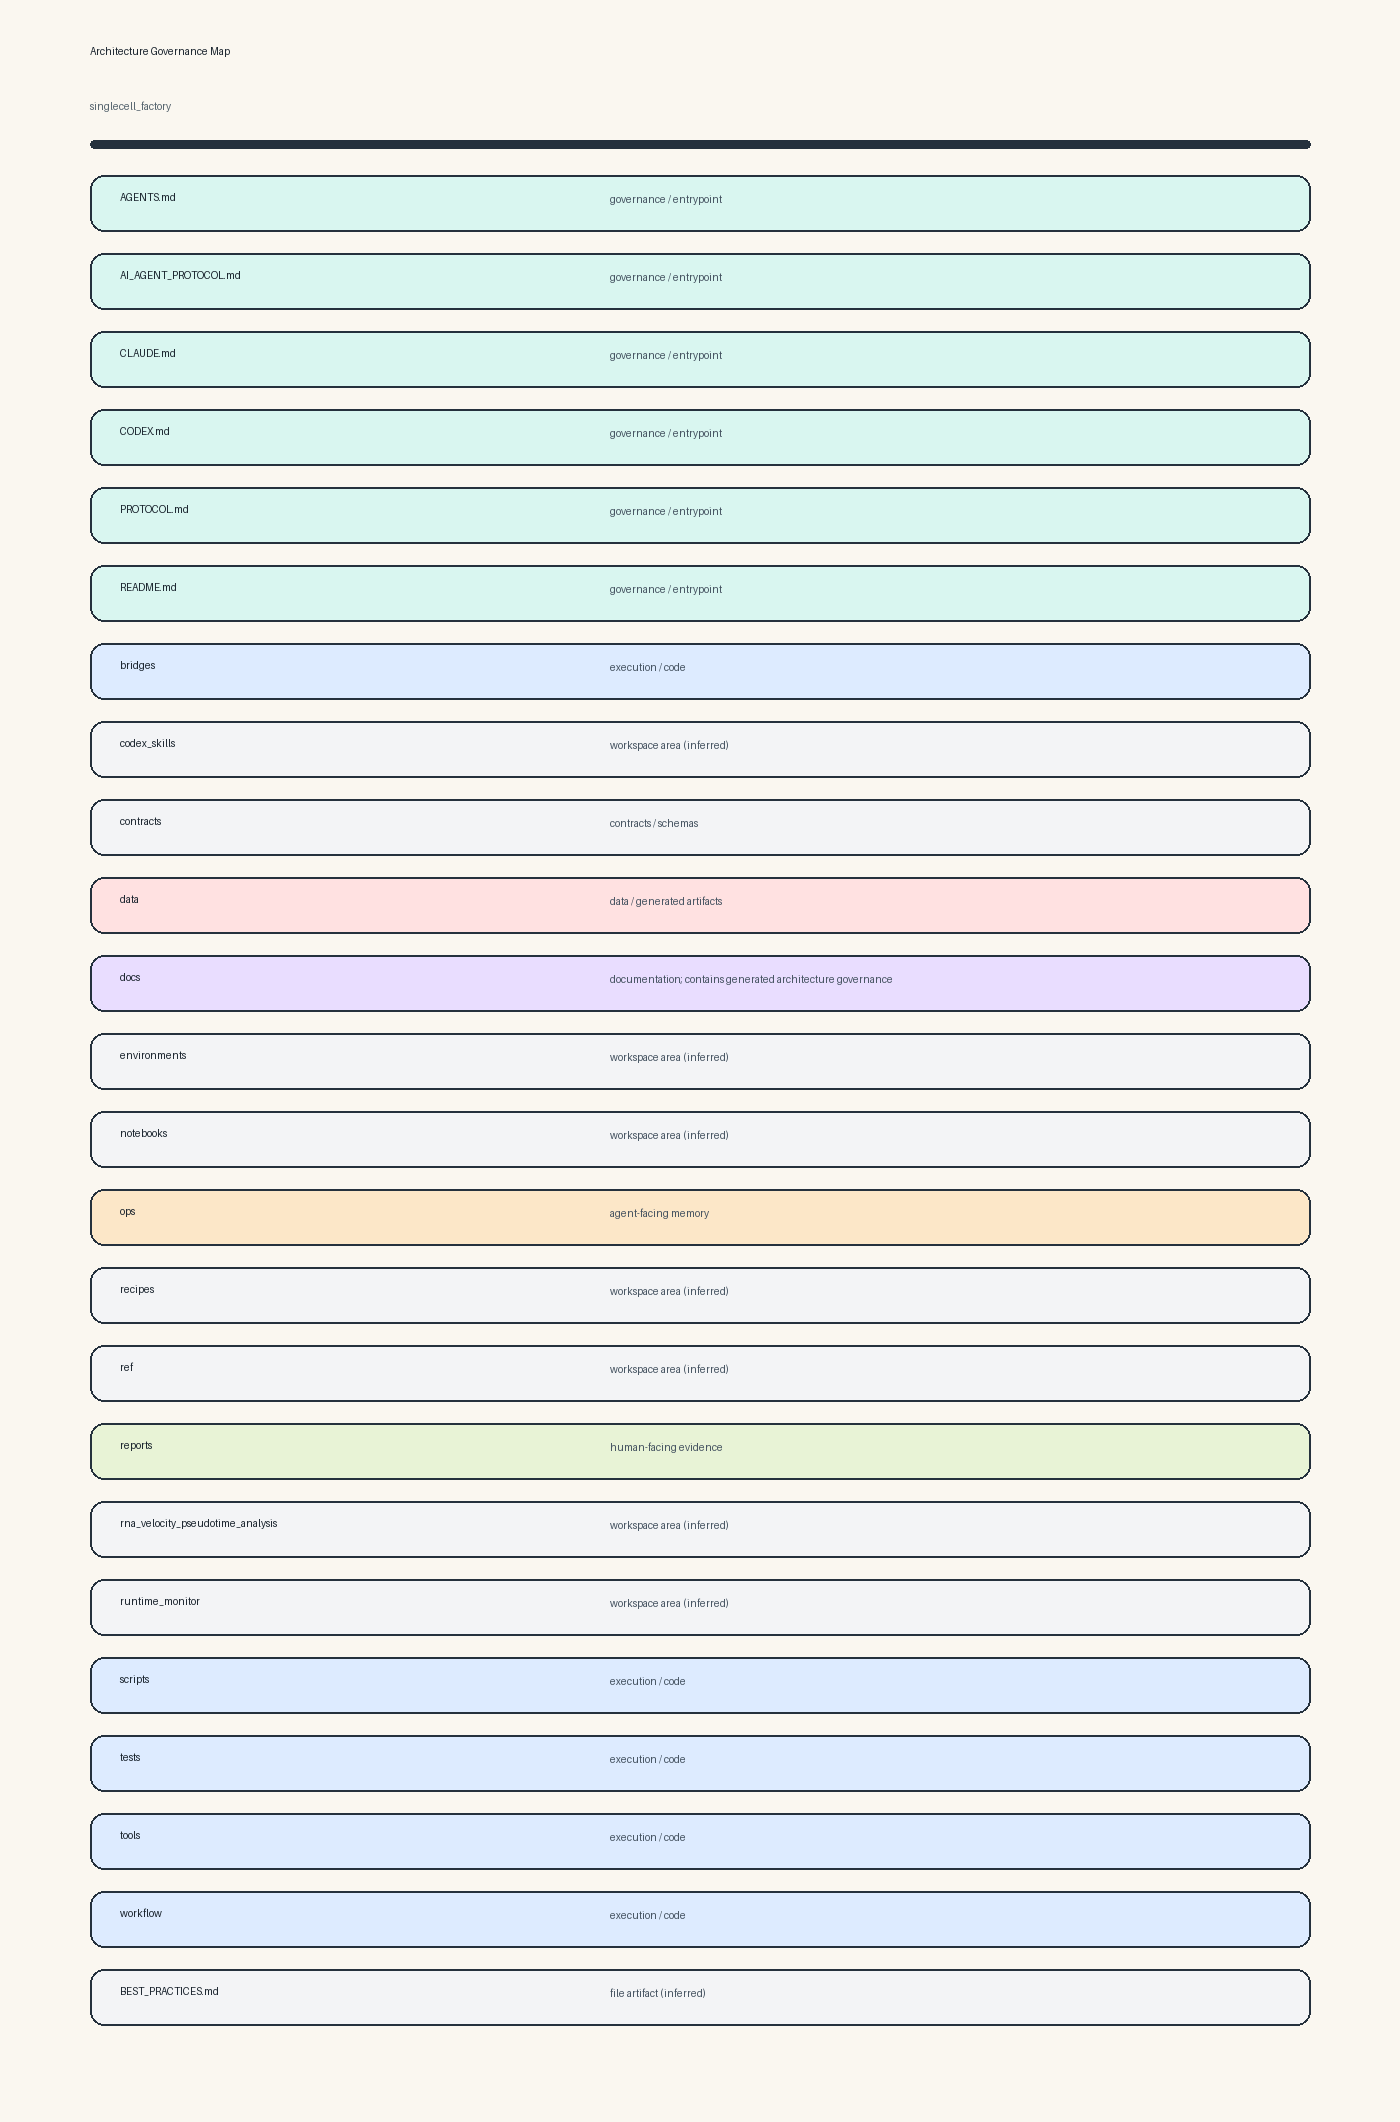
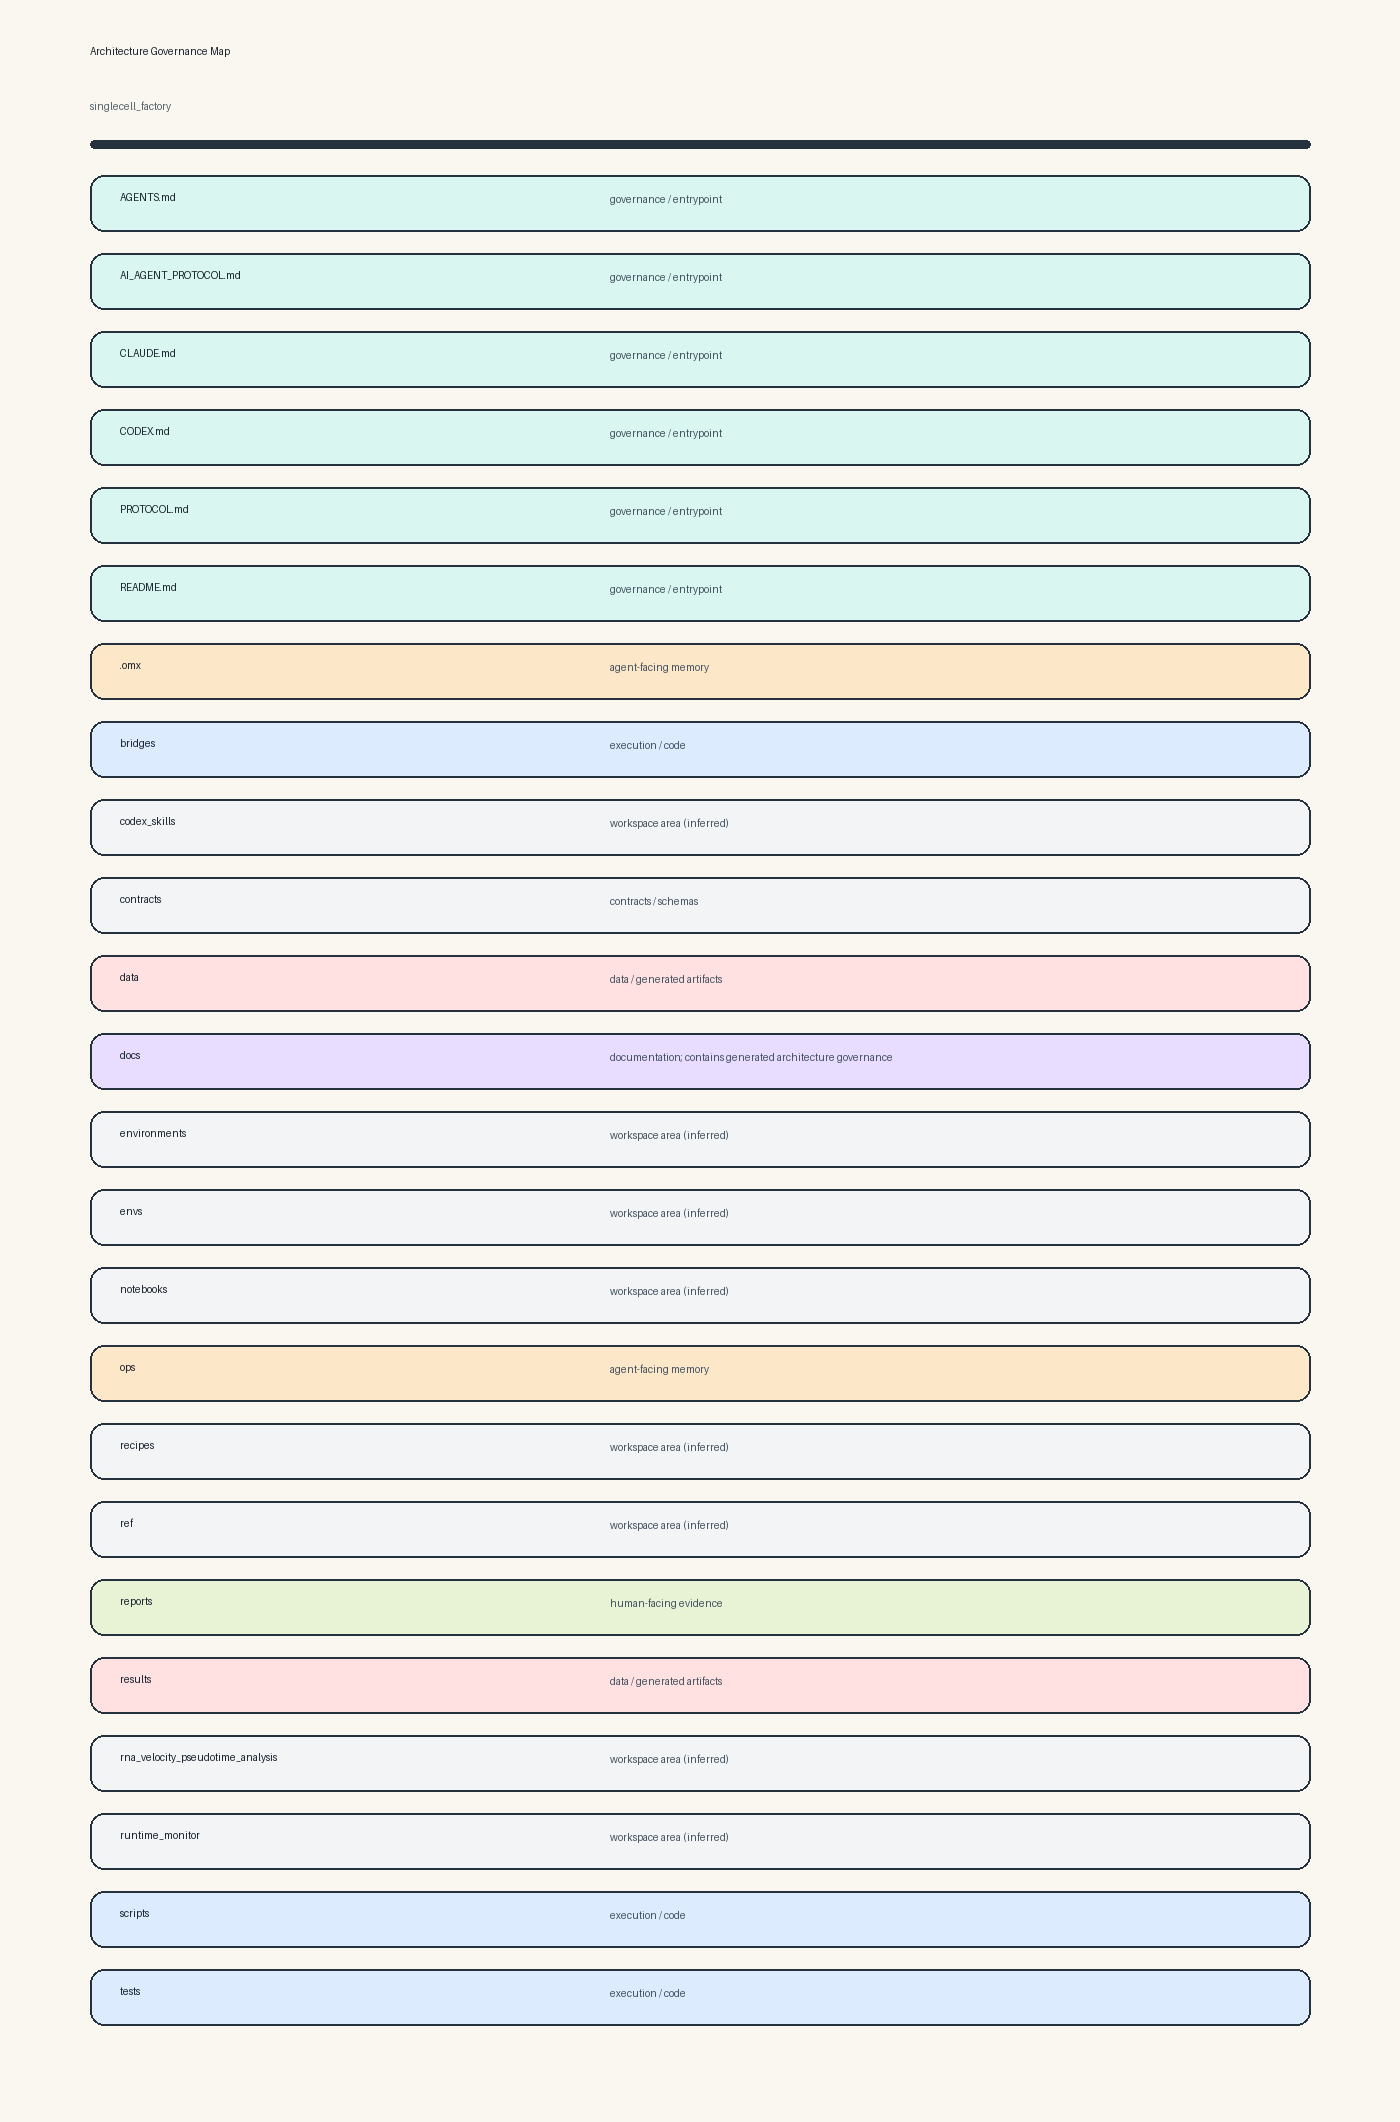
docs: refresh canonical architecture governance

diff --git a/README.md b/README.md
@@ -2621,7 +2621,7 @@ The most recent canonical work is the **wave5 Trevino PCW21** biology-aware vali
 <!-- ARCHITECTURE-GOVERNANCE:START -->
 ## Architecture Governance
 
-Last refreshed: `2026-08-02T15:04:20Z`
+Last refreshed: `2026-08-02T17:19:02Z`
 
 ![Workspace structure](docs/architecture/structure.png)
 
@@ -2635,24 +2635,24 @@ Last refreshed: `2026-08-02T15:04:20Z`
 | `CODEX.md` | `file` | governance / entrypoint |
 | `PROTOCOL.md` | `file` | governance / entrypoint |
 | `README.md` | `file` | governance / entrypoint |
+| `.omx` | `dir` | agent-facing memory |
 | `bridges` | `dir` | execution / code |
 | `codex_skills` | `dir` | workspace area (inferred) |
 | `contracts` | `dir` | contracts / schemas |
 | `data` | `dir` | data / generated artifacts |
 | `docs` | `dir` | documentation; contains generated architecture governance |
 | `environments` | `dir` | workspace area (inferred) |
+| `envs` | `dir` | workspace area (inferred) |
 | `notebooks` | `dir` | workspace area (inferred) |
 | `ops` | `dir` | agent-facing memory |
 | `recipes` | `dir` | workspace area (inferred) |
 | `ref` | `dir` | workspace area (inferred) |
 | `reports` | `dir` | human-facing evidence |
+| `results` | `dir` | data / generated artifacts |
 | `rna_velocity_pseudotime_analysis` | `dir` | workspace area (inferred) |
 | `runtime_monitor` | `dir` | workspace area (inferred) |
 | `scripts` | `dir` | execution / code |
 | `tests` | `dir` | execution / code |
-| `tools` | `dir` | execution / code |
-| `workflow` | `dir` | execution / code |
-| `BEST_PRACTICES.md` | `file` | file artifact (inferred) |
 
 ### Required Update Habit
 

diff --git a/docs/architecture/ARCHITECTURE_GOVERNANCE.md b/docs/architecture/ARCHITECTURE_GOVERNANCE.md
@@ -3,7 +3,7 @@
 <!-- ARCHITECTURE-GOVERNANCE:START -->
 ## Architecture Governance
 
-Last refreshed: `2026-08-02T15:04:20Z`
+Last refreshed: `2026-08-02T17:19:02Z`
 
 ![Workspace structure](structure.png)
 
@@ -17,24 +17,24 @@ Last refreshed: `2026-08-02T15:04:20Z`
 | `CODEX.md` | `file` | governance / entrypoint |
 | `PROTOCOL.md` | `file` | governance / entrypoint |
 | `README.md` | `file` | governance / entrypoint |
+| `.omx` | `dir` | agent-facing memory |
 | `bridges` | `dir` | execution / code |
 | `codex_skills` | `dir` | workspace area (inferred) |
 | `contracts` | `dir` | contracts / schemas |
 | `data` | `dir` | data / generated artifacts |
 | `docs` | `dir` | documentation; contains generated architecture governance |
 | `environments` | `dir` | workspace area (inferred) |
+| `envs` | `dir` | workspace area (inferred) |
 | `notebooks` | `dir` | workspace area (inferred) |
 | `ops` | `dir` | agent-facing memory |
 | `recipes` | `dir` | workspace area (inferred) |
 | `ref` | `dir` | workspace area (inferred) |
 | `reports` | `dir` | human-facing evidence |
+| `results` | `dir` | data / generated artifacts |
 | `rna_velocity_pseudotime_analysis` | `dir` | workspace area (inferred) |
 | `runtime_monitor` | `dir` | workspace area (inferred) |
 | `scripts` | `dir` | execution / code |
 | `tests` | `dir` | execution / code |
-| `tools` | `dir` | execution / code |
-| `workflow` | `dir` | execution / code |
-| `BEST_PRACTICES.md` | `file` | file artifact (inferred) |
 
 ### Required Update Habit
 
